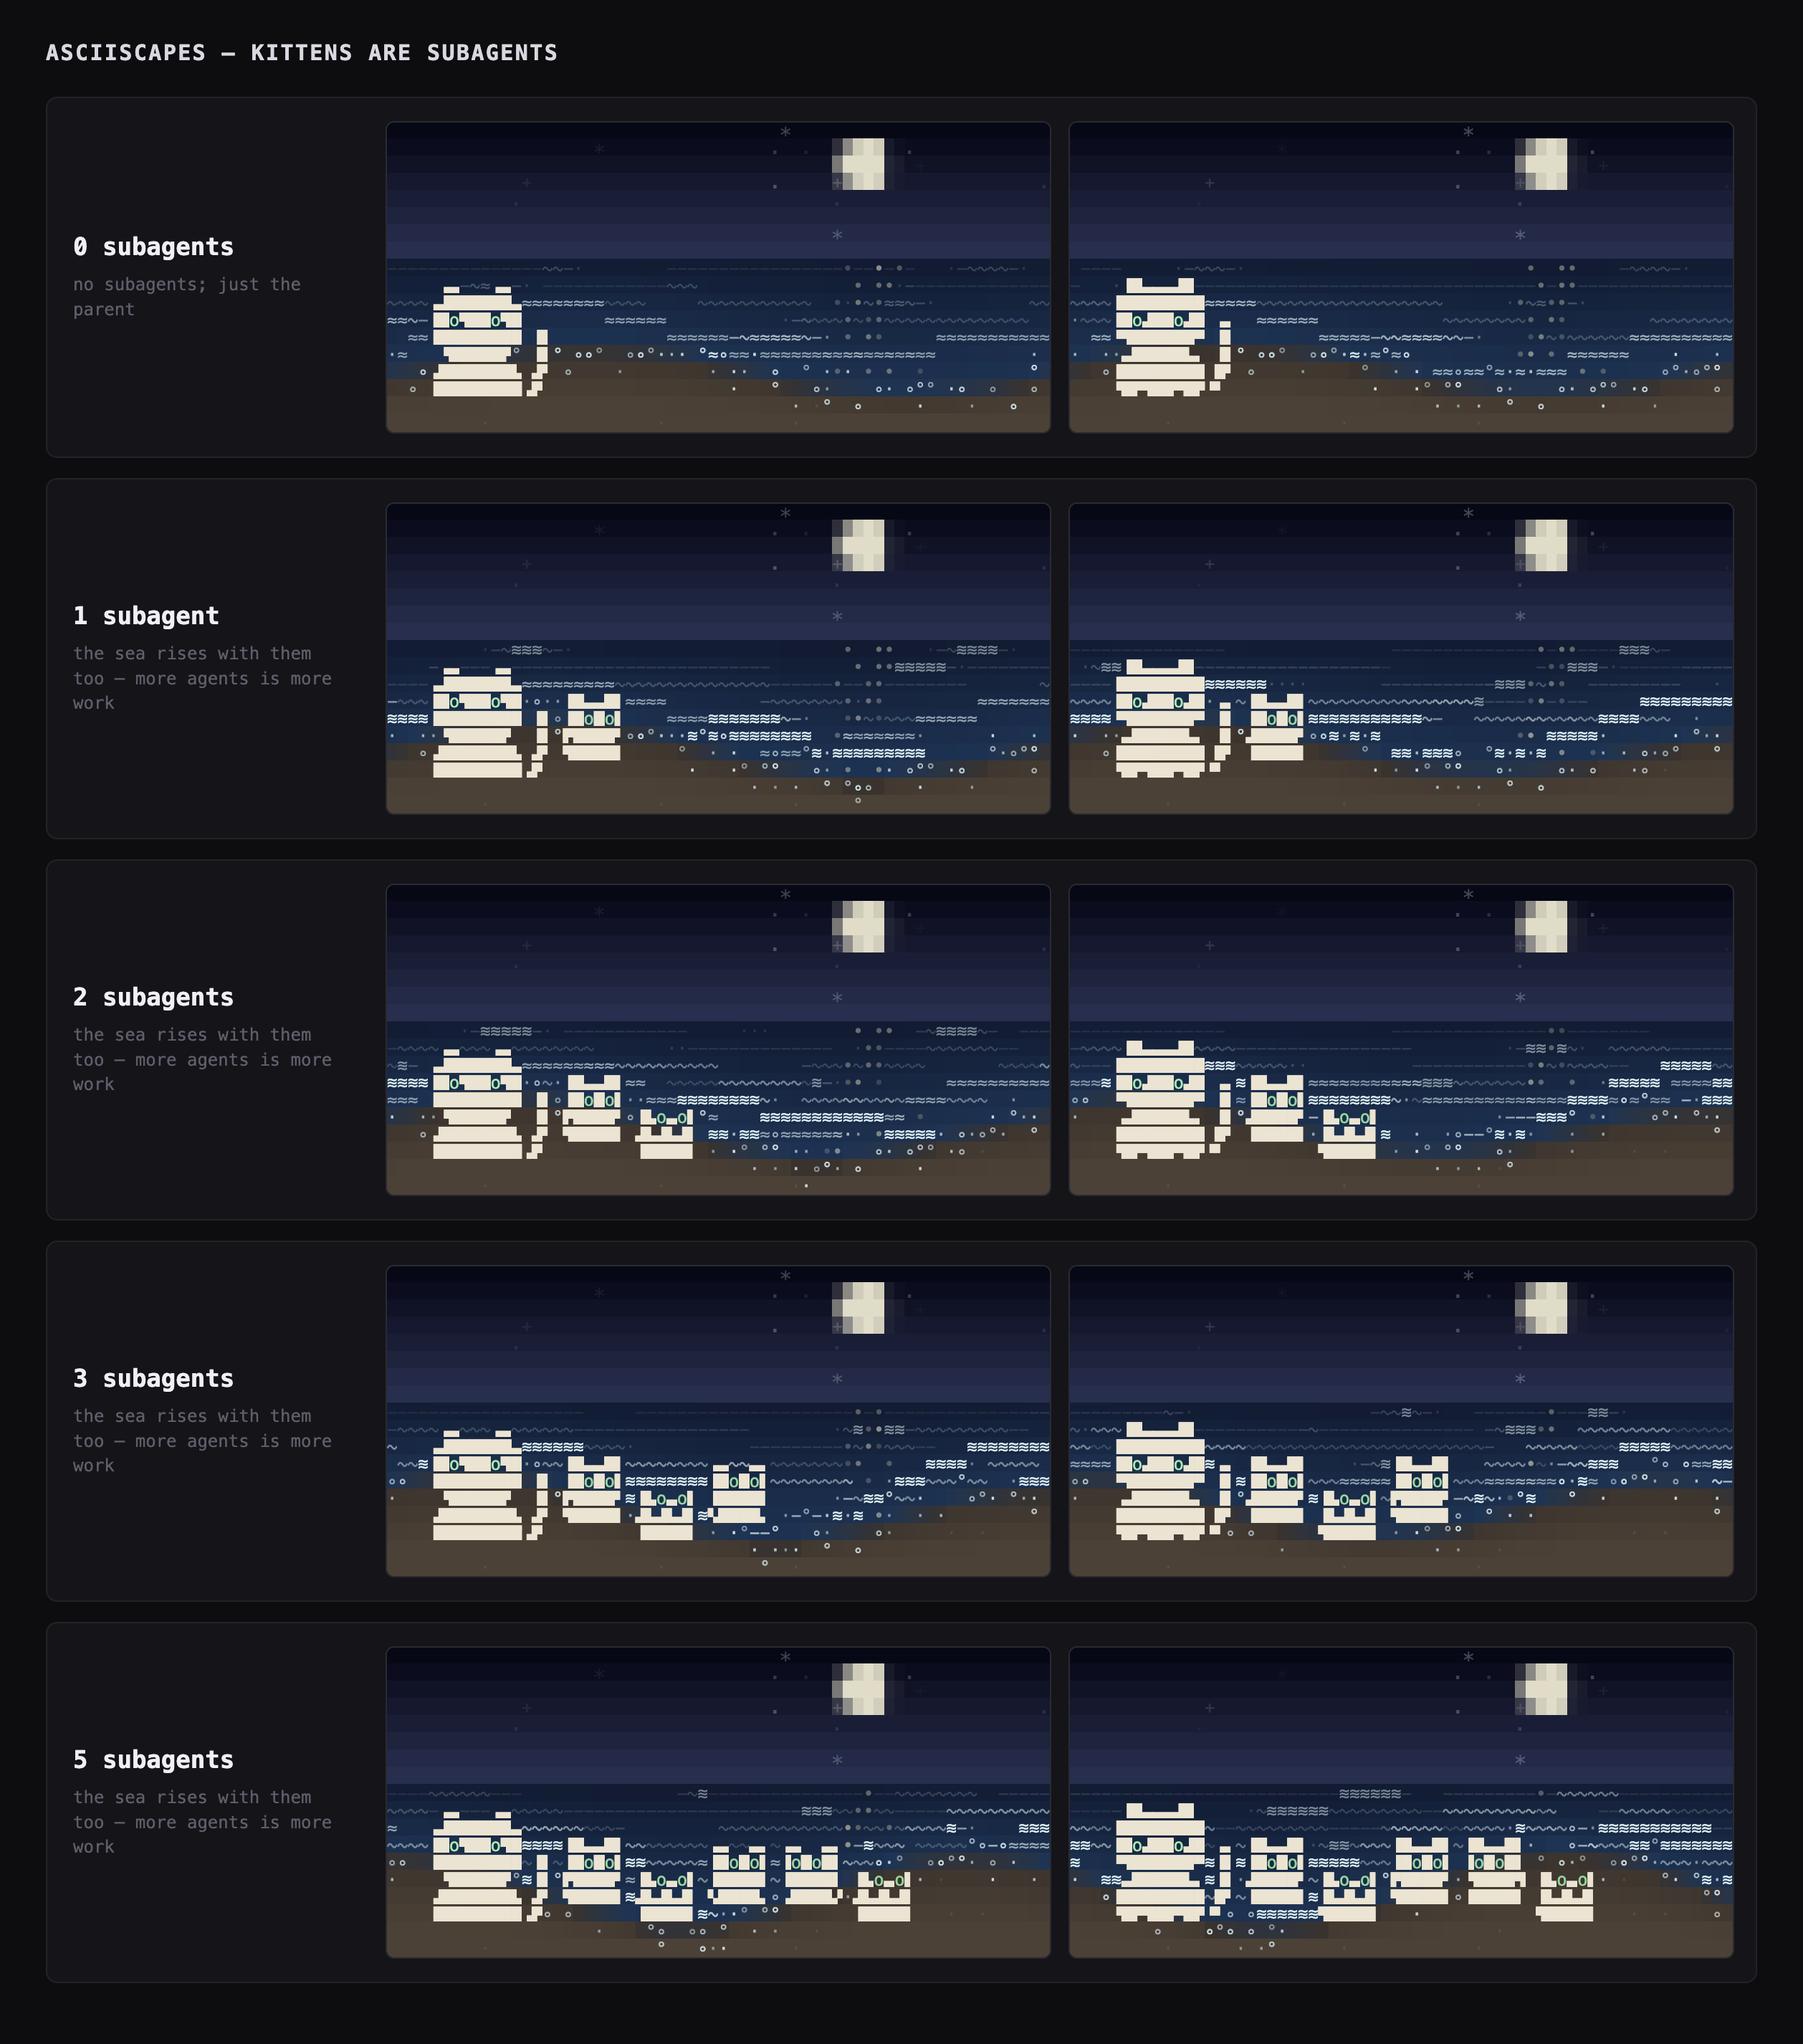
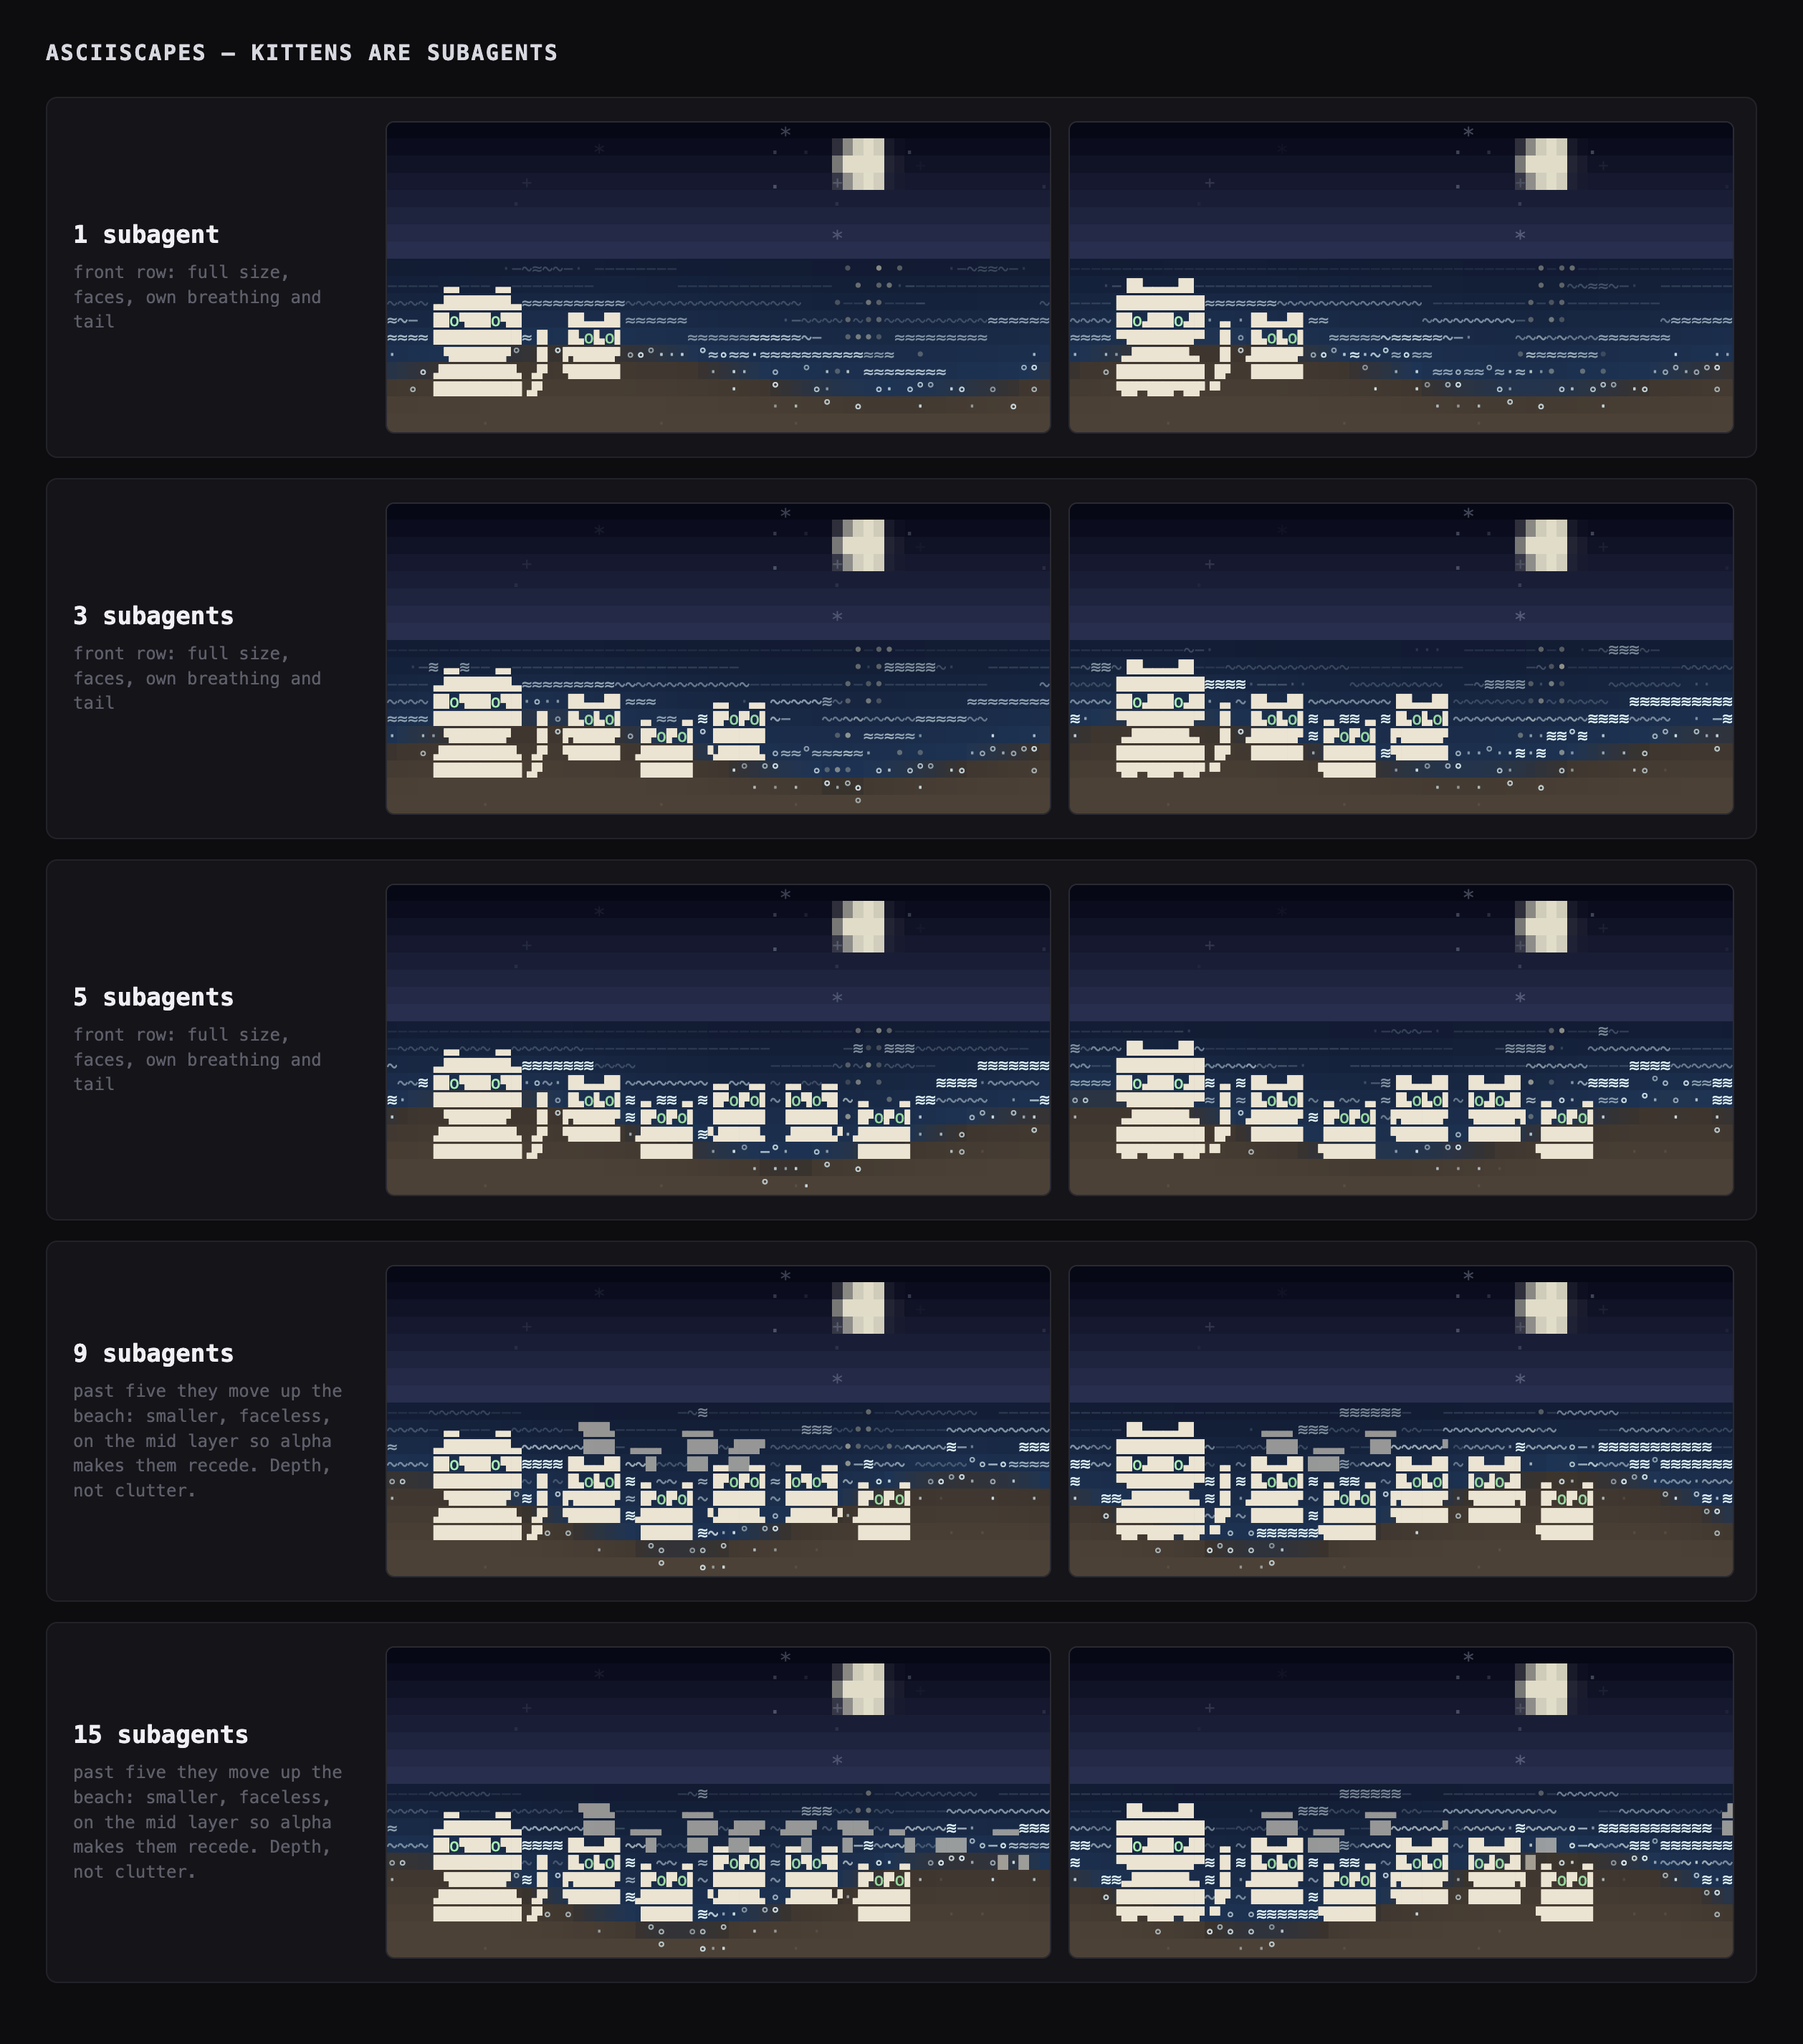
Fix escaped kitten eyes, and handle large fan-outs
The eye sockets are holes in the bitmap but the glyphs were plotted at a
fixed cell row. Poses with sockets at rows 5-6 pushed the hole across a
cell boundary when the body shifted two pixels to breathe, leaving the
eyes outside the head. The parent escaped only by luck: its sockets sit
at rows 8-9, which stay inside one cell under the same shift.

Sockets moved to rows 4-5 in both kitten poses, and
TestEyeSocketsSurviveBreathing now asserts the invariant for every
sprite -- including a negative case, since a check that cannot fail
proves nothing.

Past five subagents, kittens move to a second row further up the beach:
smaller, faceless, on the mid layer so the existing alpha model makes
them recede. Detail is the first thing distance takes, so a fan-out of
fifteen reads as depth rather than clutter.

Claude-Session: https://claude.ai/code/session_019PBtf39rtmaj5ru2XNdm5i

diff --git a/internal/companion/cat.go b/internal/companion/cat.go
@@ -50,6 +50,7 @@ type Cat struct {
 	walk    *Bitmap
 	worried *Bitmap
 	kittens []*Bitmap
+	kitFar  *Bitmap
 }
 
 func NewCat() *Cat {
@@ -229,6 +230,11 @@ func (c *Cat) KittenSize() (w, h int) {
 	return b.W / 2, b.H / 4
 }
 
+// nearKittens is how many get the front row before the rest are pushed up the
+// beach. Beyond this they stop being individuals you can read and start being a
+// crowd, which is a different drawing problem.
+const nearKittens = 5
+
 // DrawKittens places n kittens beside the parent, one per running subagent.
 //
 // They must not look stamped, and they must not need n drawings. Every kitten
@@ -236,7 +242,12 @@ func (c *Cat) KittenSize() (w, h int) {
 // phase, and by sitting a little forward or back on the sand. All of it comes
 // from a hash of the kitten's index, so a given subagent keeps the same kitten
 // for as long as it runs instead of flickering between looks every frame.
-func (c *Cat) DrawKittens(l *canvas.Layer, px, py, n int, t float64, seed int64) {
+//
+// Past nearKittens they move to a second row further up the beach: smaller,
+// faceless, and on the mid layer so the existing alpha model makes them recede.
+// That is what distance actually does to detail, so a fan-out of fifteen reads
+// as depth rather than as clutter.
+func (c *Cat) DrawKittens(l *canvas.Layer, far *canvas.Layer, px, py, n int, t float64, seed int64) {
 	if n <= 0 {
 		return
 	}
@@ -244,13 +255,16 @@ func (c *Cat) DrawKittens(l *canvas.Layer, px, py, n int, t float64, seed int64)
 	pw, ph := c.Size()
 	kw, kh := c.KittenSize()
 
-	for i := 0; i < n; i++ {
+	front := n
+	if front > nearKittens {
+		front = nearKittens
+	}
+	for i := 0; i < front; i++ {
 		pick := poses[int(HashF(i, 1, seed)*float64(len(poses)))%len(poses)]
 		mirror := HashF(i, 2, seed) > 0.5
 		ph2 := HashF(i, 3, seed) * 6.283
 
 		f := pick.Blank()
-		// Kittens breathe faster than the parent, and out of step with it.
 		lift := 0
 		if math.Sin(t*2.6+ph2) > 0 {
 			lift = 2
@@ -267,17 +281,15 @@ func (c *Cat) DrawKittens(l *canvas.Layer, px, py, n int, t float64, seed int64)
 			f = f.Mirrored()
 		}
 
-		// Spread to the parent's right, staggered so they do not form a rank.
 		kx := px + pw + 1 + i*(kw+1)
 		ky := py + ph - kh
 		if HashF(i, 4, seed) > 0.55 {
-			ky-- // a couple sit further up the sand
+			ky--
 		}
-
 		(&Sprite{Rows: f.ToQuadrant(), Body: furCol}).Draw(l, kx, ky)
 
-		// Eye gaps sit at source cols 3-4 and 7-8, cell columns 1 and 3 --
-		// the same cell row as the parent's, which is most of the resemblance.
+		// Sockets sit at source rows 4-5, cell row 1, and stay there under the
+		// breathing lift -- see TestEyeSocketsSurviveBreathing.
 		e1, e2 := kx+1, kx+3
 		if mirror {
 			e1, e2 = kx+kw-2, kx+kw-4
@@ -285,6 +297,44 @@ func (c *Cat) DrawKittens(l *canvas.Layer, px, py, n int, t float64, seed int64)
 		l.Plot(e1, ky+1, 'o', kittenEye, 1)
 		l.Plot(e2, ky+1, 'o', kittenEye, 1)
 	}
+
+	if n <= nearKittens || far == nil {
+		return
+	}
+	fb := c.kittenFar()
+	fw, fh := fb.W/2, fb.H/4
+	for i := nearKittens; i < n; i++ {
+		k := i - nearKittens
+		ph2 := HashF(i, 3, seed) * 6.283
+		f := fb.Blank()
+		lift := 0
+		if math.Sin(t*2.9+ph2) > 0 {
+			lift = 2
+		}
+		for sy := 0; sy < f.H; sy++ {
+			for sx := 0; sx < f.W; sx++ {
+				if fb.at(sx, sy-lift) {
+					f.Set(sx, sy)
+				}
+			}
+		}
+		if HashF(i, 2, seed) > 0.5 {
+			f = f.Mirrored()
+		}
+		kx := px + pw + 2 + k*(fw+1)
+		ky := py + ph - kh - fh + 1 // further up the beach, so further away
+		if HashF(i, 4, seed) > 0.6 {
+			ky--
+		}
+		(&Sprite{Rows: f.ToQuadrant(), Body: furCol}).Draw(far, kx, ky)
+	}
+}
+
+func (c *Cat) kittenFar() *Bitmap {
+	if c.kitFar == nil {
+		c.kitFar = ParseBitmap(KittenFar)
+	}
+	return c.kitFar
 }
 
 func (c *Cat) kittenTail(b *Bitmap, wag float64, lift int) {

diff --git a/internal/companion/bitmaps.go b/internal/companion/bitmaps.go
@@ -70,7 +70,7 @@ var CatBody = []string{
 // Bitmaps is what the uniform-width test walks.
 var Bitmaps = map[string][]string{"cat": PixelCat, "catBody": CatBody,
 	"catWalk": CatWalk, "catWorried": CatWorried,
-	"kittenSit": KittenSit, "kittenCurl": KittenCurl}
+	"kittenSit": KittenSit, "kittenCurl": KittenCurl, "kittenFar": KittenFar}
 
 // CatWalk is the side view: torso and head only, facing right. Legs and tail
 // are drawn per frame, so the gait needs no art. Mirror the composed frame
@@ -149,7 +149,6 @@ var KittenSit = []string{
 	".###....###.",
 	"..########..",
 	".##########.",
-	".##########.",
 	".##..##..##.",
 	".##..##..##.",
 	".##########.",
@@ -160,12 +159,11 @@ var KittenSit = []string{
 	"..########..",
 	".##########.",
 	".##########.",
+	".##########.",
 	"..##...##...",
 }
 
 var KittenCurl = []string{
-	"............",
-	"............",
 	"............",
 	".##......##.",
 	".###....###.",
@@ -173,11 +171,42 @@ var KittenCurl = []string{
 	".##..##..##.",
 	".##..##..##.",
 	".##########.",
+	".####..####.",
 	".##########.",
 	"..########..",
+	".##########.",
 	".##########.",
 	".##########.",
 	"..########..",
 	"............",
 	"............",
+}
+
+// KittenFar is a kitten seen from further up the beach: half again
+// smaller and faceless. Detail is the first thing distance takes, so this
+// is what a crowd looks like rather than a compromise.
+var KittenFar = []string{
+	".#....#.",
+	".######.",
+	"######..",
+	"######..",
+	"######..",
+	"######..",
+	"######..",
+	".#####..",
+	"######..",
+	"######..",
+	"######..",
+	".#..#...",
+}
+
+// eyeRows records where each sprite's eye sockets live so the test can
+// prove they stay inside ONE character cell while the body breathes.
+// Getting this wrong puts the eyes outside the head, which is exactly what
+// happened to the kittens on 2026-08-30.
+var eyeRows = map[string][2]int{
+	"catBody":    {8, 9},
+	"catWorried": {8, 9},
+	"kittenSit":  {4, 5},
+	"kittenCurl": {4, 5},
 }

diff --git a/kittens.go b/kittens.go
@@ -2,6 +2,7 @@ package main
 
 import (
 	"fmt"
+	"math"
 	"strings"
 
 	"github.com/donlucasx/asciiscapes/internal/canvas"
@@ -18,25 +19,26 @@ func kittenPage(seed int64) string {
 		`.lv{font-size:10px;color:#55555f;letter-spacing:.1em;margin-bottom:5px}</style>`)
 	b.WriteString(`<h1>asciiscapes &mdash; kittens are subagents</h1>`)
 
-	for _, n := range []int{0, 1, 2, 3, 5} {
+	for _, n := range []int{1, 3, 5, 9, 15} {
 		var row strings.Builder
 		for _, t := range []float64{3.0, 3.6} {
 			c := canvas.New(64, 18, canvas.AlphaFar, canvas.AlphaMid, canvas.AlphaNear)
 			scape.NewShore(seed, false).Update(c, t, scape.Activity{
-				Working: true, Level: 0.35 + float64(n)*0.13, ContextUsed: 0.3,
+				Working: true, Level: math.Min(1, 0.3+float64(n)*0.08), ContextUsed: 0.3,
 			})
 			top := c.H - 2 - chh
 			cat.Draw(c.Near(), 4, top, t, companion.Working)
-			cat.DrawKittens(c.Near(), 4, top, n, t, seed)
+			cat.DrawKittens(c.Near(), c.Mid(), 4, top, n, t, seed)
 			fmt.Fprintf(&row, `<div class="win">%s</div>`, c.HTMLFragment(12))
 		}
 		label := fmt.Sprintf("%d subagents", n)
 		if n == 1 {
 			label = "1 subagent"
 		}
-		note := "the sea rises with them too &mdash; more agents is more work"
-		if n == 0 {
-			note = "no subagents; just the parent"
+		note := "front row: full size, faces, own breathing and tail"
+		if n > 5 {
+			note = "past five they move up the beach: smaller, faceless, on the mid " +
+				"layer so alpha makes them recede. Depth, not clutter."
 		}
 		fmt.Fprintf(&b, `<div class="card"><div class="meta"><div class="nm">%s</div>`+
 			`<div class="nt">%s</div></div><div style="display:flex;gap:12px">%s</div></div>`,

diff --git a/internal/companion/width_test.go b/internal/companion/width_test.go
@@ -92,3 +92,23 @@ func TestReportsAmbiguousReliance(t *testing.T) {
 		t.Logf("%-9s ambiguous-width runes used: %q", tc.name, string(list))
 	}
 }
+
+// Eyes are plotted at a fixed cell row while the body shifts by two source
+// pixels to breathe. If a socket straddles a cell boundary under that shift,
+// the eyes end up outside the head.
+func TestEyeSocketsSurviveBreathing(t *testing.T) {
+	for name, er := range eyeRows {
+		for _, lift := range []int{0, 2} {
+			top, bot := (er[0]+lift)/4, (er[1]+lift)/4
+			if top != bot {
+				t.Errorf("%s: eye socket rows %d-%d straddle cell rows %d and %d at lift %d",
+					name, er[0]+lift, er[1]+lift, top, bot, lift)
+			}
+		}
+	}
+	// The check has to be able to fail, or it proves nothing. Rows 5-6 are what
+	// the kittens actually had: fine at rest, straddling once they breathe.
+	if (5+2)/4 == (6+2)/4 {
+		t.Error("guard cannot detect the straddle it was written for")
+	}
+}

diff --git a/strip.go b/strip.go
@@ -74,7 +74,7 @@ func stripPage(seed int64, frames int, fps float64, mode string) string {
 			top := c.H - 2 - chh
 			cat.Draw(c.Near(), 6, top, t, st)
 			if mode == "kittens" {
-				cat.DrawKittens(c.Near(), 6, top, 4, t, seed)
+				cat.DrawKittens(c.Near(), c.Mid(), 6, top, 8, t, seed)
 			}
 			if st == companion.Worried {
 				rows := companion.Bubble("tests failing")
